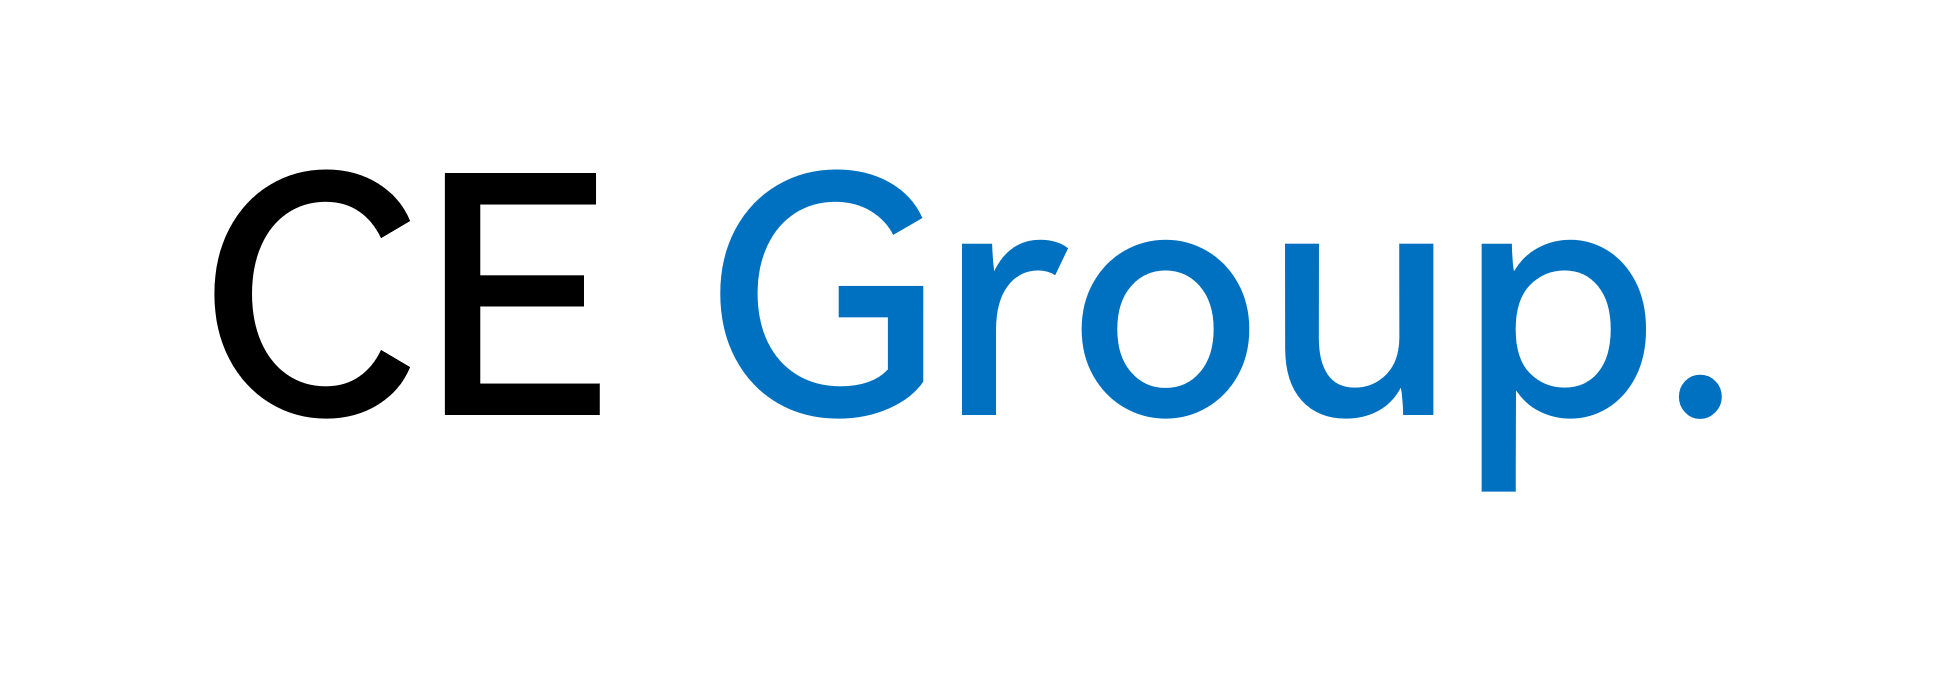
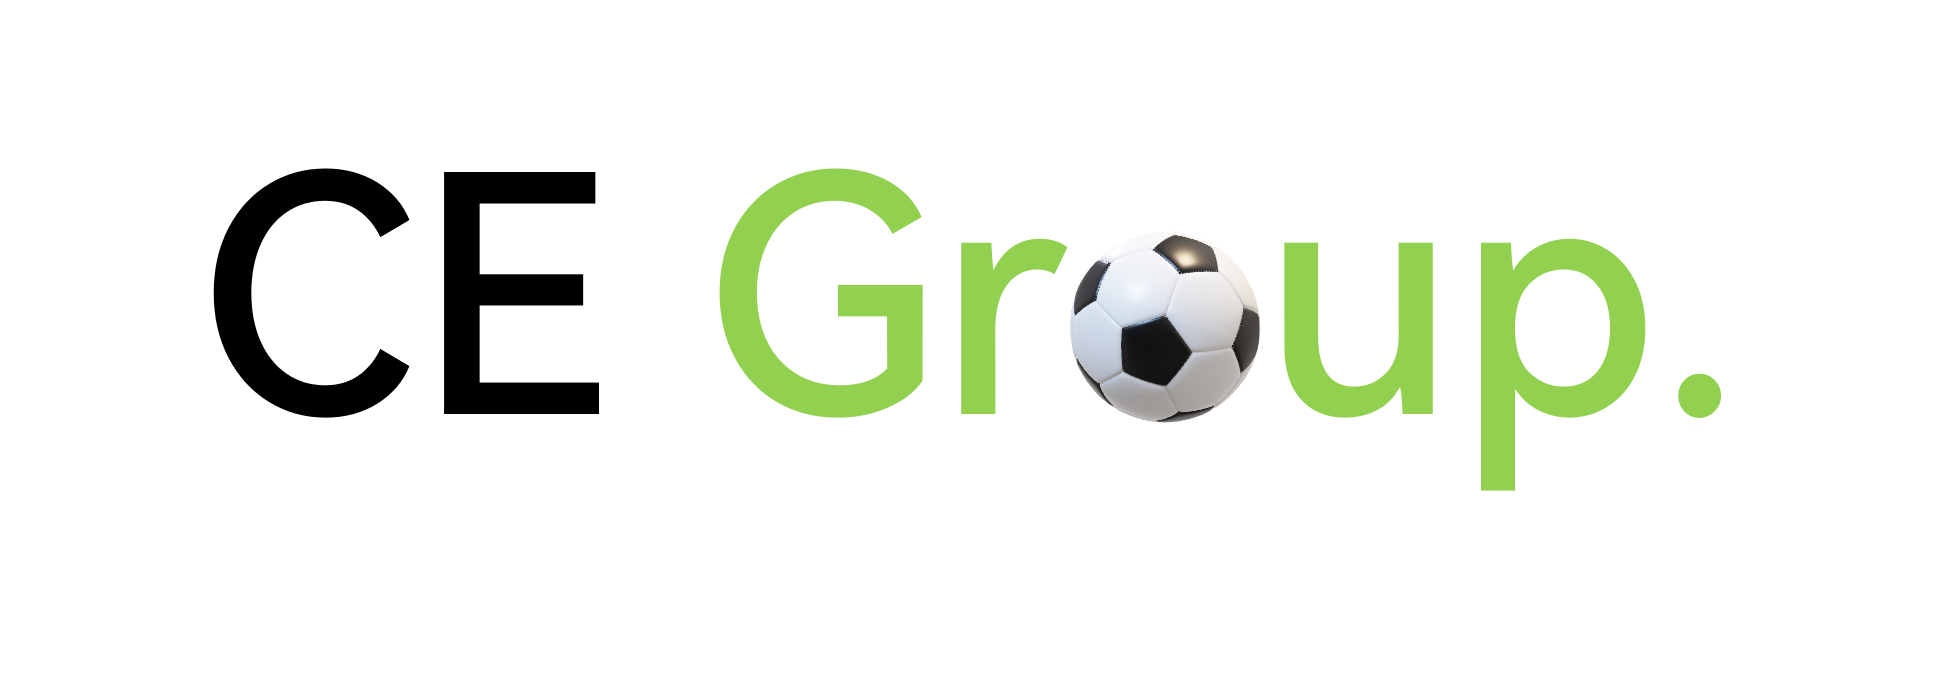
取消悼念主题，更改Logo为足球风格。

Changed region(s): [[0.3715, 0.2421, 0.8978, 0.7262], [0.2786, 0.5447, 0.3096, 0.5749], [0.2477, 0.4236, 0.2786, 0.4539]]

diff --git a/index.html b/index.html
@@ -6,9 +6,6 @@
 	<link rel="shortcut icon" href="https://www.cegroup.buzz/i1.ico" type="image/x-icon" />
 	<video src="/v1.mp4" loop="loop" autoplay="autoplay"></video>
 	<style>
-	html{
-	filter:grayscale(85%);
-	}
 		body{
 			margin:0;
 		}
